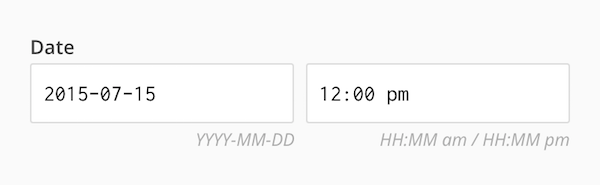
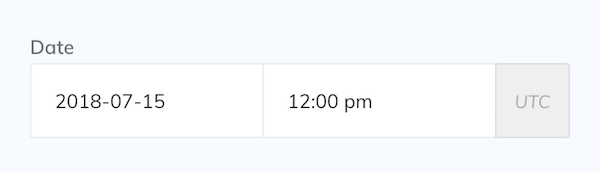
Updated date info

diff --git a/_docs/editing/front-matter.md b/_docs/editing/front-matter.md
@@ -173,14 +173,30 @@ examples:
     image_paths:
       - /images/editing/front-matter/social.png
   - title: Date
-    details: Date picker with options for year, month and day. Displayed for keys ending in `_date` and date values.
+    details: |
+      Date picker with options for year, month and day. Displayed for keys ending in `_date` and date values.
+
+      If `site.timezone` is set, dates are output with the matching offset suffix. If unset, dates are output in UTC (without an offset suffix).
     yaml_code_block: |
       ---
-      sale_start_date: 2015-01-09 00:00:00
+      sale_start_date: 2018-01-09 00:00:00
       ---
     image_paths:
       - /images/editing/front-matter/date.png
       - /images/editing/front-matter/date-focus.png
+    info: The time part is always added as `00:00:00` for consistency with *Date Time* fields and sorting comparisons in Liquid.
+  - title: Date Time
+    details: |
+      Combination date picker and 12 hour time input. Outputs an ISO 8601 date. Displayed for `date`, `datetime` and keys ending in `_at` or `_datetime`.
+
+      If `site.timezone` is set, dates are output with the matching offset suffix. If unset, dates are output in UTC (without an offset suffix).
+    yaml_code_block: |
+      ---
+      date: 2018-07-15 12:00:00
+      ---
+    image_paths:
+      - /images/editing/front-matter/datetime.png
+      - /images/editing/front-matter/datetime-focus.png
   - title: Time
     details: 12 hour time input. Displayed for `time` and keys ending in `_time`.
     yaml_code_block: |
@@ -189,15 +205,6 @@ examples:
       ---
     image_paths:
       - /images/editing/front-matter/time.png
-  - title: Date Time
-    details: Combination date picker and 12 hour time input. Outputs an ISO 8601 date. Displayed for `date`, `datetime` and keys ending in `_at` or `_datetime`.
-    yaml_code_block: |
-      ---
-      date: 2015-07-15 12:00:00
-      ---
-    image_paths:
-      - /images/editing/front-matter/datetime.png
-      - /images/editing/front-matter/datetime-focus.png
   - title: Select
     details: |
       Set of options in a dropdown menu. The options are populated from an array or object in `_config.yml`, or with [Collection](/editing/collections/) items:
